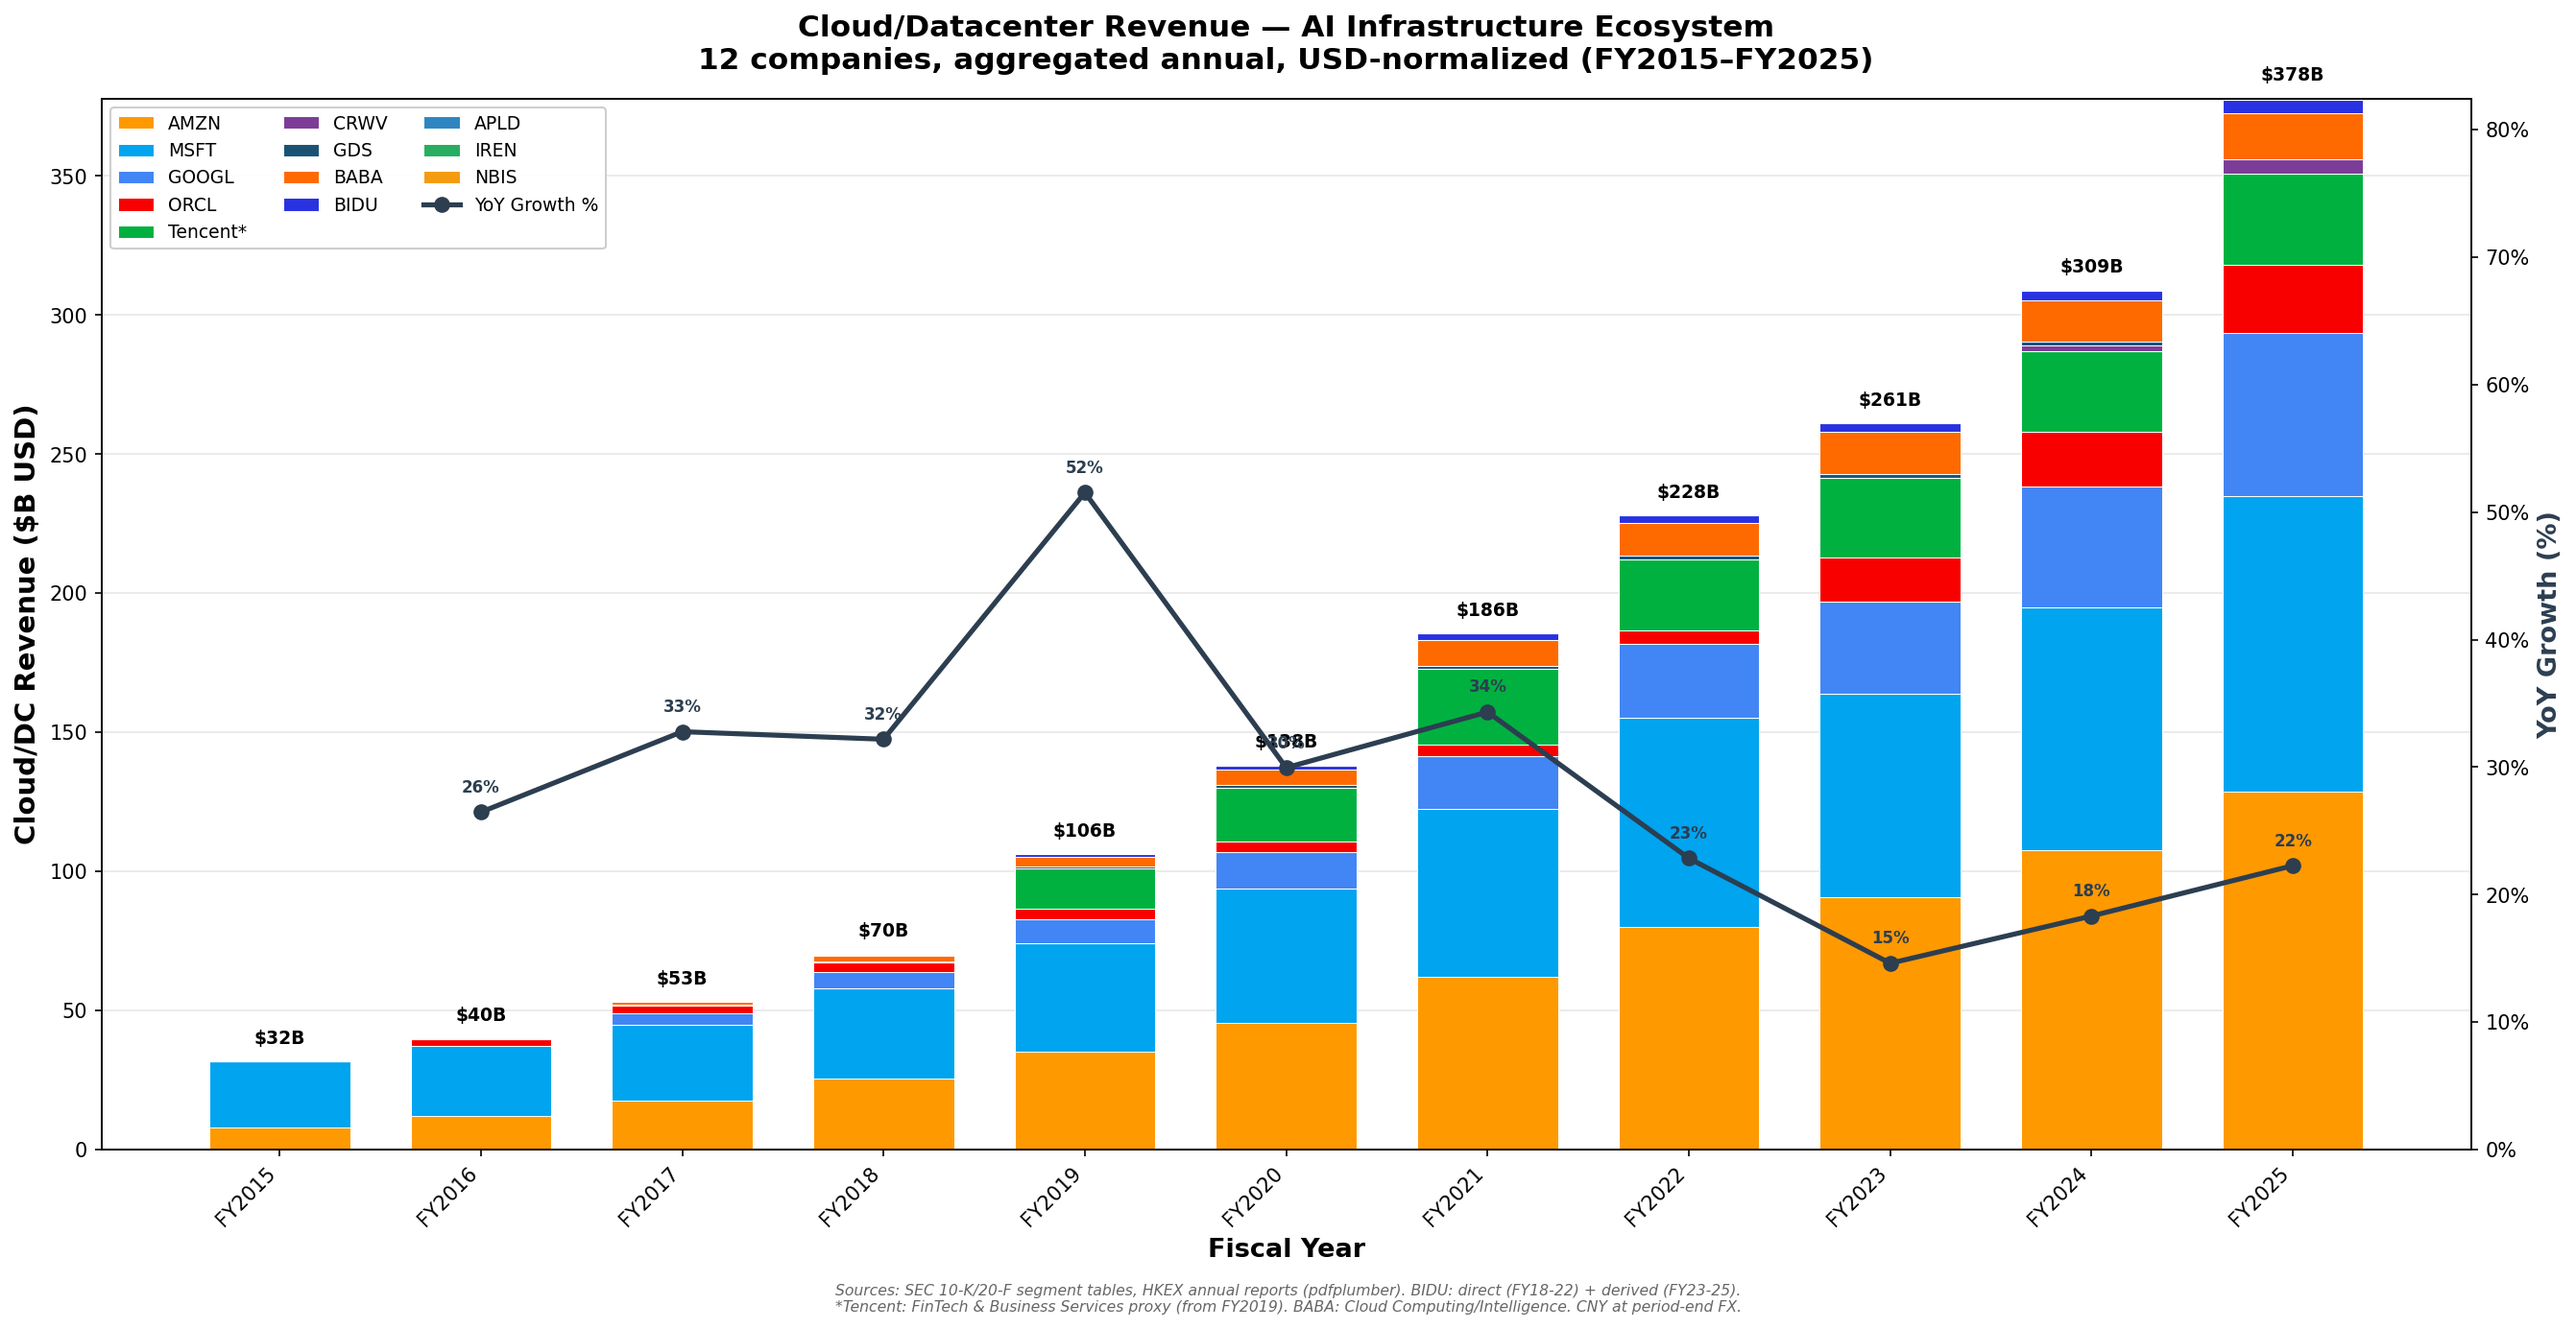
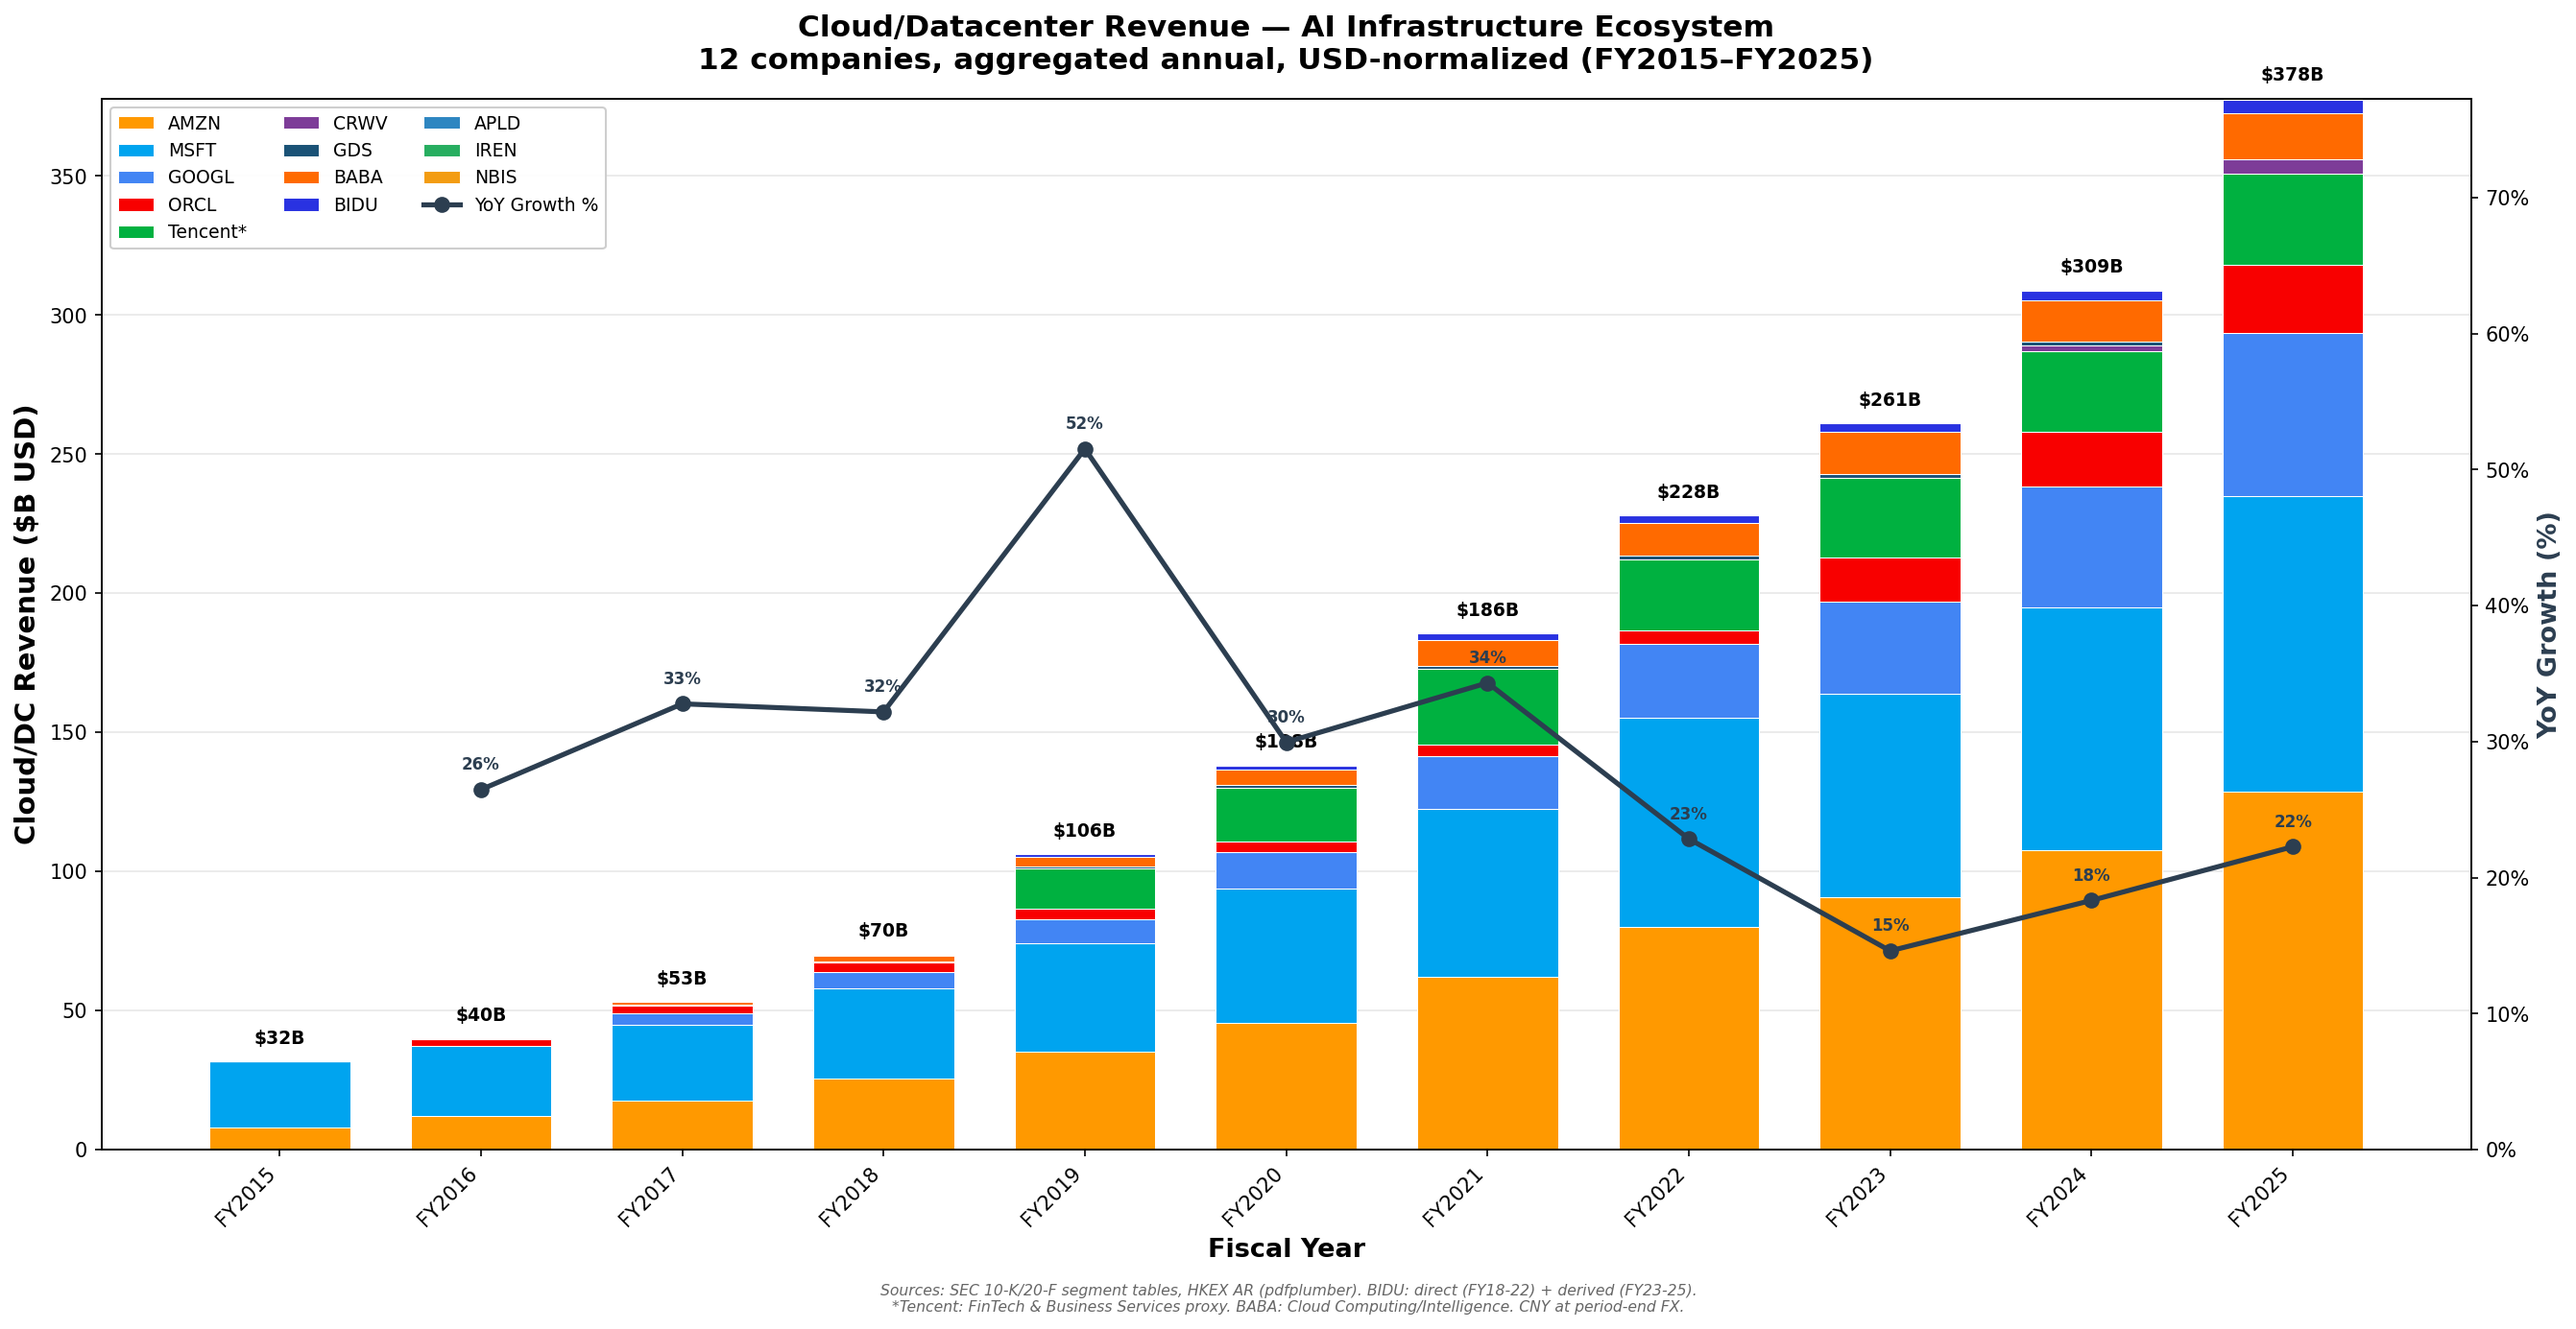
Codify chart generation: YoY always recalculated, no filtering
New: src/capex/exporters/charts.py — dedicated chart generation module.
Key design rule (documented prominently in module docstring):

    YoY growth rates are ALWAYS recomputed from the raw DB data at
    chart generation time. They are never cached or stored. DO NOT
    filter out YoY values based on magnitude.

Previously the chart code had `if v < 55` / `if v < 80` filters that
hid valid growth rates. Now ALL YoY values are shown — including
FY2019's 52% which is real (Tencent, BABA, BIDU entering the dataset).

CLI: `capex chart` regenerates the chart from current DB state.
Call this after any data extraction to ensure the YoY line is correct.

The chart module is the single source of truth for chart generation.
Inline matplotlib scripts in bash are deprecated — use this module.

diff --git a/src/capex/exporters/charts.py b/src/capex/exporters/charts.py
@@ -1,0 +1,183 @@
+"""Chart generation from the extractions DB.
+
+IMPORTANT — YoY GROWTH RECALCULATION:
+    YoY growth rates are ALWAYS recomputed from the raw DB data at
+    chart generation time. They are never cached or stored. This is
+    O(1) per data point and ensures the growth line is always correct
+    when the underlying revenue series changes.
+
+    DO NOT filter out YoY values based on magnitude. If the growth
+    rate is 50%+ because new companies entered the dataset, that's
+    a VALID data point that should be shown on the chart. The footnote
+    explains when companies enter.
+
+Usage:
+    from capex.exporters.charts import generate_cloud_revenue_chart
+    generate_cloud_revenue_chart()  # → charts/cloud_revenue_annual.png
+"""
+from __future__ import annotations
+
+import sqlite3
+from pathlib import Path
+
+REPO_ROOT = Path(__file__).resolve().parents[3]
+DB_PATH = REPO_ROOT / "data" / "db" / "capex.db"
+CHARTS_DIR = REPO_ROOT / "charts"
+
+# Company display config
+STACK_ORDER = [
+    "AMZN", "MSFT", "GOOGL", "ORCL", "0700", "CRWV",
+    "GDS", "BABA", "BIDU", "APLD", "IREN", "NBIS",
+]
+COLORS = {
+    "AMZN": "#FF9900", "MSFT": "#00A4EF", "GOOGL": "#4285F4",
+    "ORCL": "#F80000", "0700": "#00B140", "CRWV": "#7D3C98",
+    "GDS": "#1A5276", "BABA": "#FF6A00", "BIDU": "#2932E1",
+    "APLD": "#2E86C1", "IREN": "#27AE60", "NBIS": "#F39C12",
+}
+LABELS = {"0700": "Tencent*"}  # override display names
+NBIS_START = 2024  # filter pre-restructuring
+
+
+def generate_cloud_revenue_chart(
+    output: str | Path | None = None,
+    db_path: str | Path | None = None,
+) -> Path:
+    """Generate the cloud/DC revenue stacked bar chart with YoY line.
+
+    YoY growth is ALWAYS recalculated from the DB. No filtering, no
+    caching. If you add or modify data, just call this function again.
+    """
+    import matplotlib
+    matplotlib.use("Agg")
+    import matplotlib.pyplot as plt
+    import matplotlib.ticker as mticker
+    import numpy as np
+
+    output = Path(output or CHARTS_DIR / "cloud_revenue_annual.png")
+    output.parent.mkdir(parents=True, exist_ok=True)
+    db_path = db_path or DB_PATH
+
+    # --- STEP 1: Load data from DB ---
+    conn = sqlite3.connect(str(db_path))
+    conn.row_factory = sqlite3.Row
+    rows = conn.execute(
+        "SELECT sd.ticker, sd.fiscal_year, "
+        "COALESCE(e.value_usd, e.value) as val "
+        "FROM extractions e "
+        "JOIN source_documents sd ON e.source_document_id = sd.id "
+        "WHERE e.metric_key = 'cloud_segment_revenue' "
+        "AND sd.period_token = 'AR'"
+    ).fetchall()
+    conn.close()
+
+    by_year: dict[int, dict[str, float]] = {}
+    for r in rows:
+        fy, t, v = r["fiscal_year"], r["ticker"], r["val"]
+        if not v or v <= 0:
+            continue
+        if t == "NBIS" and fy < NBIS_START:
+            continue
+        by_year.setdefault(fy, {})[t] = v
+
+    years = sorted(y for y in by_year if y >= 2015)
+    totals = [sum(by_year[y].values()) for y in years]
+
+    # --- STEP 2: Compute YoY growth — ALWAYS from scratch ---
+    # This is O(n) where n = number of years. No caching, no filtering.
+    yoy: list[float | None] = [None]
+    for i in range(1, len(totals)):
+        if totals[i - 1] > 0:
+            yoy.append((totals[i] / totals[i - 1] - 1) * 100)
+        else:
+            yoy.append(None)
+
+    # --- STEP 3: Plot ---
+    fig, ax1 = plt.subplots(figsize=(18, 9))
+    ax2 = ax1.twinx()
+    x = np.arange(len(years))
+    bottom = np.zeros(len(years))
+
+    for co in STACK_ORDER:
+        vals = np.array(
+            [by_year[y].get(co, 0) / 1000 for y in years]
+        )
+        if vals.sum() > 0:
+            label = LABELS.get(co, co)
+            ax1.bar(
+                x, vals, 0.7, bottom=bottom, label=label,
+                color=COLORS.get(co, "#888"),
+                edgecolor="white", linewidth=0.5,
+            )
+            bottom += vals
+
+    # Total labels
+    for i, t in enumerate(totals):
+        ax1.text(
+            i, t / 1000 + 5, f"${t / 1000:.0f}B",
+            ha="center", va="bottom", fontsize=9, fontweight="bold",
+        )
+
+    # YoY line — show ALL valid points, no magnitude filter
+    yoy_x = [i for i, v in enumerate(yoy) if v is not None]
+    yoy_y = [yoy[i] for i in yoy_x]
+    if yoy_x:
+        ax2.plot(
+            yoy_x, yoy_y, "o-", lw=2.5, ms=7,
+            color="#2C3E50", label="YoY Growth %", zorder=10,
+        )
+        for xi, yi in zip(yoy_x, yoy_y, strict=True):
+            ax2.annotate(
+                f"{yi:.0f}%", (xi, yi),
+                textcoords="offset points", xytext=(0, 10),
+                ha="center", fontsize=8, fontweight="bold",
+                color="#2C3E50",
+            )
+
+    # Formatting
+    ax1.set_xlabel("Fiscal Year", fontsize=13, fontweight="bold")
+    ax1.set_ylabel(
+        "Cloud/DC Revenue ($B USD)", fontsize=14, fontweight="bold"
+    )
+    ax2.set_ylabel(
+        "YoY Growth (%)", fontsize=13, fontweight="bold",
+        color="#2C3E50",
+    )
+    ax1.set_xticks(x)
+    ax1.set_xticklabels(
+        [f"FY{y}" for y in years], rotation=45, ha="right", fontsize=10
+    )
+    ax1.grid(axis="y", alpha=0.3)
+    ax1.set_axisbelow(True)
+    h1, l1 = ax1.get_legend_handles_labels()
+    h2, l2 = ax2.get_legend_handles_labels()
+    ax1.legend(
+        h1 + h2, l1 + l2, loc="upper left",
+        fontsize=9, ncol=3, framealpha=0.95,
+    )
+    if yoy_y:
+        ax2.set_ylim(0, max(yoy_y) * 1.5)
+    ax2.yaxis.set_major_formatter(mticker.PercentFormatter())
+
+    plt.title(
+        "Cloud/Datacenter Revenue — AI Infrastructure Ecosystem\n"
+        "12 companies, aggregated annual, USD-normalized "
+        f"(FY{years[0]}–FY{years[-1]})",
+        fontsize=15, fontweight="bold", pad=15,
+    )
+    fig.text(
+        0.5, -0.02,
+        "Sources: SEC 10-K/20-F segment tables, HKEX AR "
+        "(pdfplumber). BIDU: direct (FY18-22) + derived (FY23-25).\n"
+        "*Tencent: FinTech & Business Services proxy. "
+        "BABA: Cloud Computing/Intelligence. CNY at period-end FX.",
+        ha="center", fontsize=7.5, style="italic", color="#666",
+    )
+
+    plt.tight_layout()
+    plt.savefig(
+        str(output), dpi=150, bbox_inches="tight",
+        facecolor="white", edgecolor="none",
+    )
+    plt.close(fig)
+    return output

diff --git a/src/capex/cli/main.py b/src/capex/cli/main.py
@@ -41,6 +41,8 @@ def main(argv: list[str] | None = None) -> int:
         return _extract_command(rest)
     if cmd == "export":
         return _export_command(rest)
+    if cmd == "chart":
+        return _chart_command(rest)
 
     print(f"unknown command: {cmd}", file=sys.stderr)
     _print_help()
@@ -141,6 +143,24 @@ def _organize_command(argv: list[str]) -> int:
         for err in summary["errors"]:
             print(f"    - {err}")
         return 1
+    return 0
+
+
+def _chart_command(argv: list[str]) -> int:
+    output = None
+    i = 0
+    while i < len(argv):
+        if argv[i] in ("-o", "--output") and i + 1 < len(argv):
+            output = argv[i + 1]
+            i += 2
+        else:
+            print(f"unknown option: {argv[i]}", file=sys.stderr)
+            return 2
+
+    from capex.exporters.charts import generate_cloud_revenue_chart
+
+    path = generate_cloud_revenue_chart(output=output)
+    print(f"chart saved to {path}")
     return 0
 
 
@@ -274,6 +294,8 @@ def _print_help() -> None:
         "                        --form FORM  specify form type (default: latest annual)\n"
         "    export              generate Excel workbook from DB\n"
         "                        -o PATH      output path (default: workbook/capex_tracker.xlsx)\n"
+        "    chart               regenerate charts (YoY auto-recalculated)\n"
+        "                        -o PATH  output path\n"
     )
 
 
